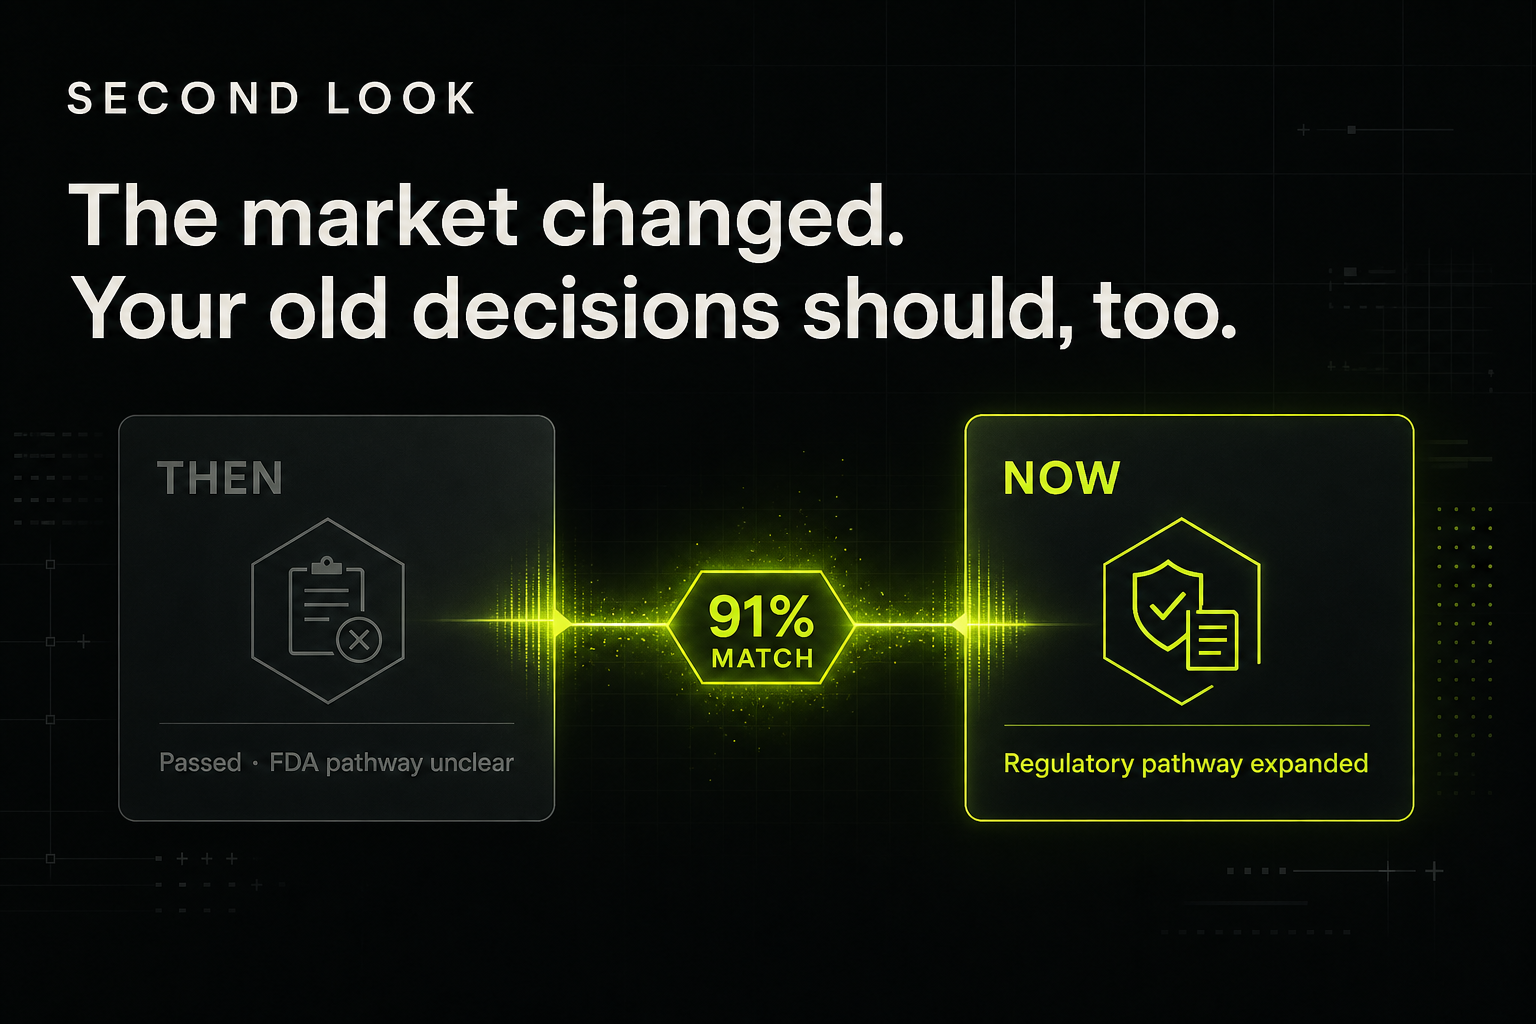
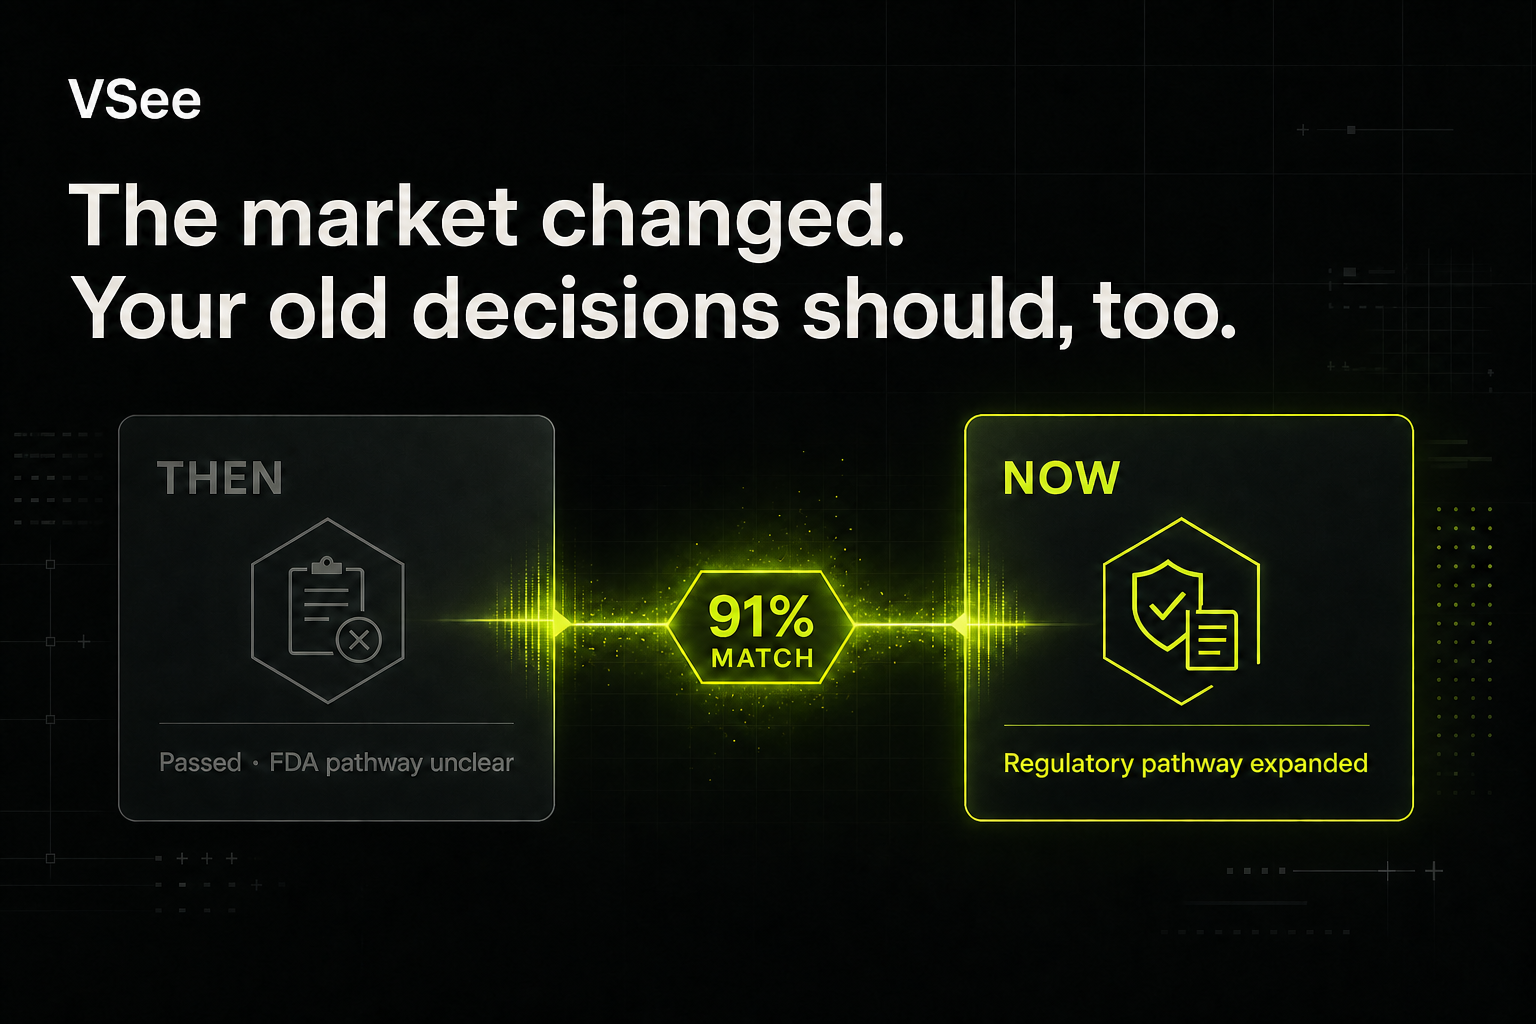
Rename product to VSee

diff --git a/app/page.tsx b/app/page.tsx
@@ -129,9 +129,9 @@ export default function Home() {
   return (
     <div className="app-shell">
       <aside className="rail" aria-label="Primary navigation">
-        <button className="brand-lockup" aria-label="Second Look overview" onClick={() => navigateProduct("overview")}>
+        <button className="brand-lockup" aria-label="VSee overview" onClick={() => navigateProduct("overview")}>
           <span className="brand-mark"><i><b>SL</b></i></span>
-          <span className="brand-copy"><strong>Second Look</strong><small>Decision intelligence</small></span>
+          <span className="brand-copy"><strong>VSee</strong><small>Decision intelligence</small></span>
         </button>
         <p className="nav-section-label">WORKSPACE</p>
         <nav className="rail-nav" aria-label="Product areas">
@@ -585,12 +585,12 @@ export default function Home() {
               <div className="report-feature">
                 <div className="report-feature-copy">
                   <span className="new-badge">NEW · DECISION DELTA</span>
-                  <h2>Asteria Bio deserves a second look.</h2>
+                  <h2>Asteria Bio deserves partner review.</h2>
                   <p>A regulatory change directly addresses the uncertainty behind the November pass. Includes current traction, deal economics, portfolio fit, and three remaining diligence risks.</p>
                   <div><span>91% confidence</span><span>6 sources</span><span>3 open risks</span><span>Owner · KM</span></div>
                   <button className="primary-button" onClick={() => setPanel("brief")}>Open partner brief <span>→</span></button>
                 </div>
-                <div className="report-preview" aria-hidden="true"><span>SECOND LOOK</span><h3>Decision delta<br />Asteria Bio</h3><i /><p>THEN → NOW → NEXT MOVE</p><small>JUL 22 · FUND II</small></div>
+                <div className="report-preview" aria-hidden="true"><span>VSEE</span><h3>Decision delta<br />Asteria Bio</h3><i /><p>THEN → NOW → NEXT MOVE</p><small>JUL 22 · FUND II</small></div>
               </div>
 
               <div className="reports-section-heading"><h2>Recent reports</h2><span>Showing 4 of 18</span></div>
@@ -641,7 +641,7 @@ export default function Home() {
               <>
                 <p className="drawer-overline">EVIDENCE CHAIN / 02 SOURCES</p>
                 <h2 id="drawer-title">Why this decision changed</h2>
-                <p className="drawer-lede">Second Look found a direct semantic match between the condition recorded by your deal team and a new regulatory signal.</p>
+                <p className="drawer-lede">VSee found a direct semantic match between the condition recorded by your deal team and a new regulatory signal.</p>
                 <div className="evidence-chain">
                   <div className="chain-item">
                     <span className="chain-number">01</span>
@@ -670,7 +670,7 @@ export default function Home() {
             ) : (
               <>
                 <p className="drawer-overline">PARTNER BRIEF / READY</p>
-                <h2 id="drawer-title">Asteria Bio deserves a second look.</h2>
+                <h2 id="drawer-title">Asteria Bio deserves partner review.</h2>
                 <p className="drawer-lede">A decision-ready brief, grounded in one historical memory and one verified market signal.</p>
                 <div className="brief-card">
                   <div className="brief-meta"><span>TO</span><strong>Investment Committee</strong></div>

diff --git a/app/layout.tsx b/app/layout.tsx
@@ -3,17 +3,17 @@ import "./globals.css";
 
 export const metadata: Metadata = {
   metadataBase: new URL("https://second-look-vc-demo.duankayne.chatgpt.site"),
-  title: "Second Look — VC Deal Intelligence",
+  title: "VSee — VC Decision Intelligence",
   description: "Turn live market shifts into evidence-backed reasons to revisit past investment decisions.",
   openGraph: {
-    title: "Second Look — VC Deal Intelligence",
+    title: "VSee — VC Decision Intelligence",
     description: "The market changed. Your old decisions should, too.",
-    images: [{ url: "/og.png", width: 1536, height: 1024, alt: "Second Look connects an old investment decision to a new market signal." }],
+    images: [{ url: "/og.png", width: 1536, height: 1024, alt: "VSee connects an old investment decision to a new market signal." }],
     type: "website",
   },
   twitter: {
     card: "summary_large_image",
-    title: "Second Look — VC Deal Intelligence",
+    title: "VSee — VC Decision Intelligence",
     description: "The market changed. Your old decisions should, too.",
     images: ["/og.png"],
   },
